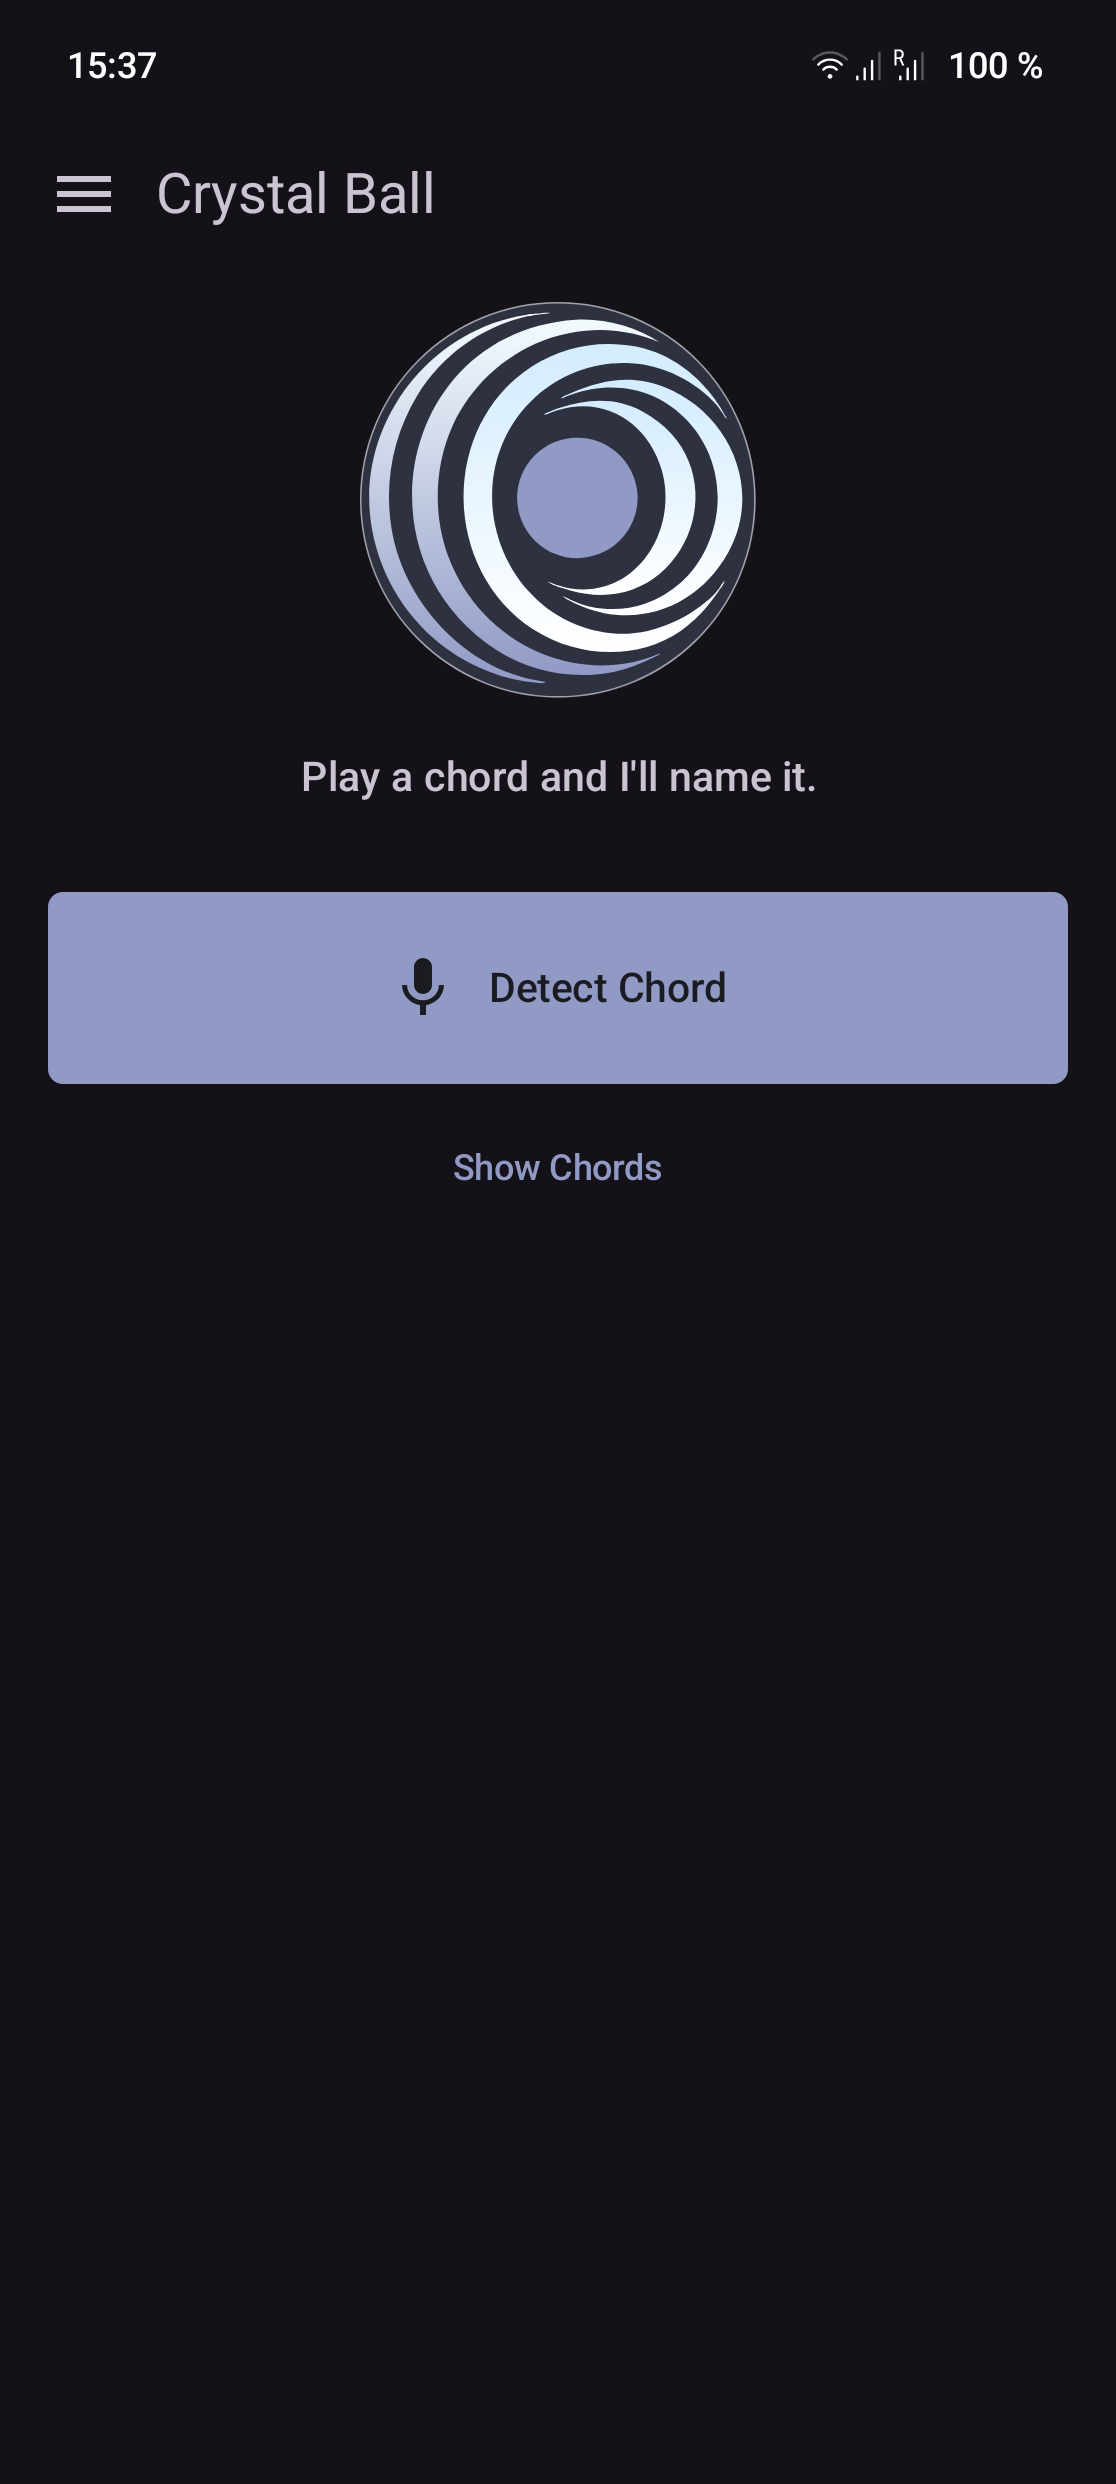
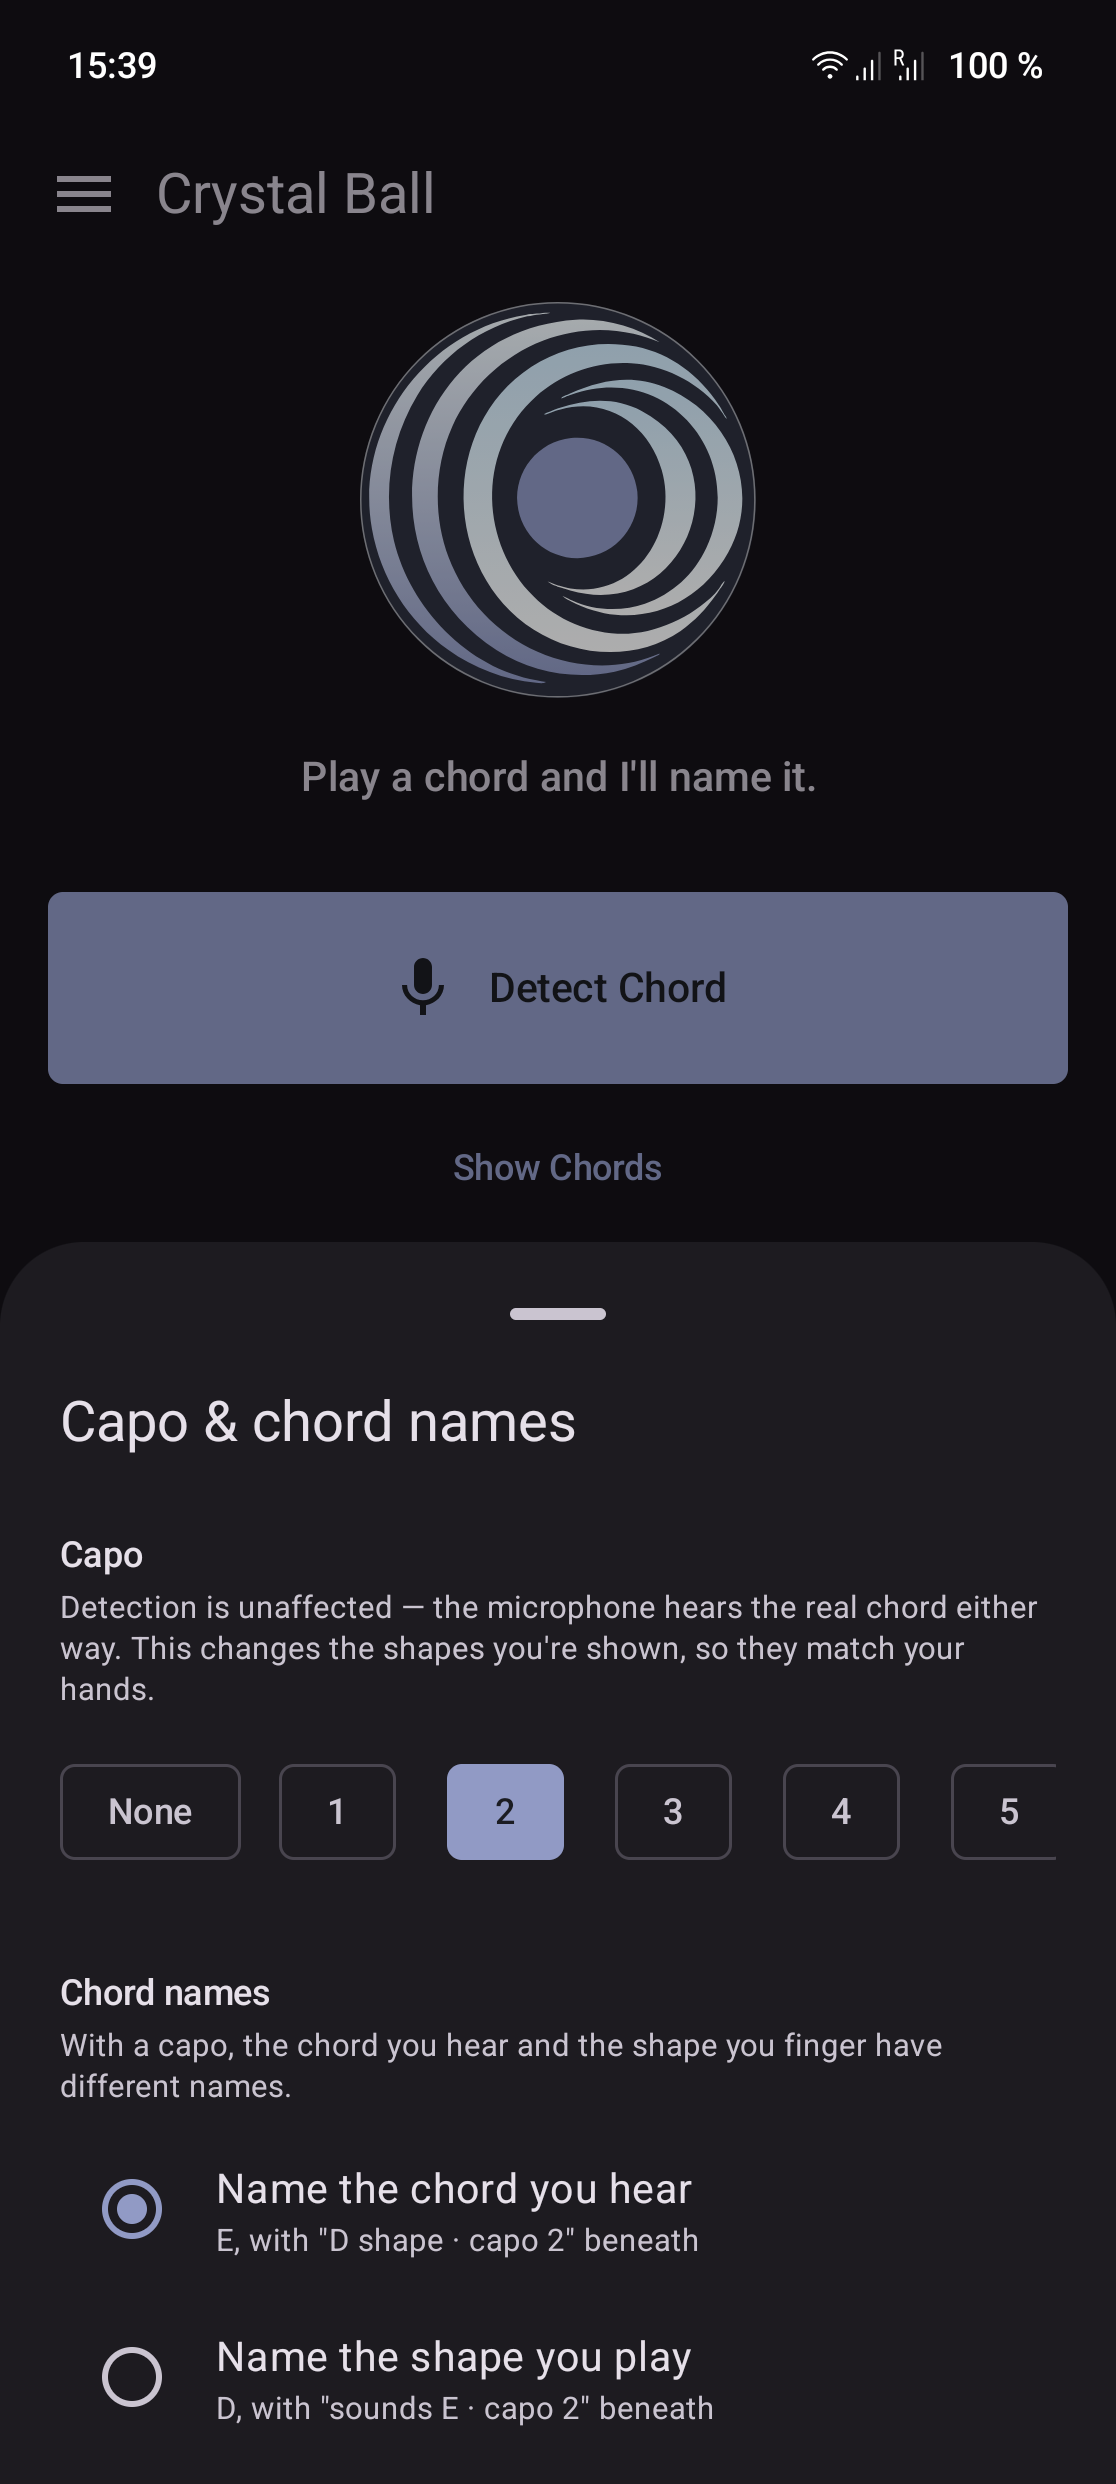
Use a screenshot that shows the capo sheet
The welcome screen alone says little about what the app does; with the
capo sheet open it shows the setting and the reasoning behind it.

diff --git a/README.md b/README.md
@@ -9,7 +9,7 @@ Early-stage release — expect rough edges. Feedback and bug reports welcome via
 
 ## Screenshots
 
-<img src="docs/screenshot.png" alt="Crystal Ball ready to listen" width="320" />
+<img src="docs/screenshot.png" alt="Crystal Ball ready to listen, with the capo sheet open" width="320" />
 
 ## Features
 